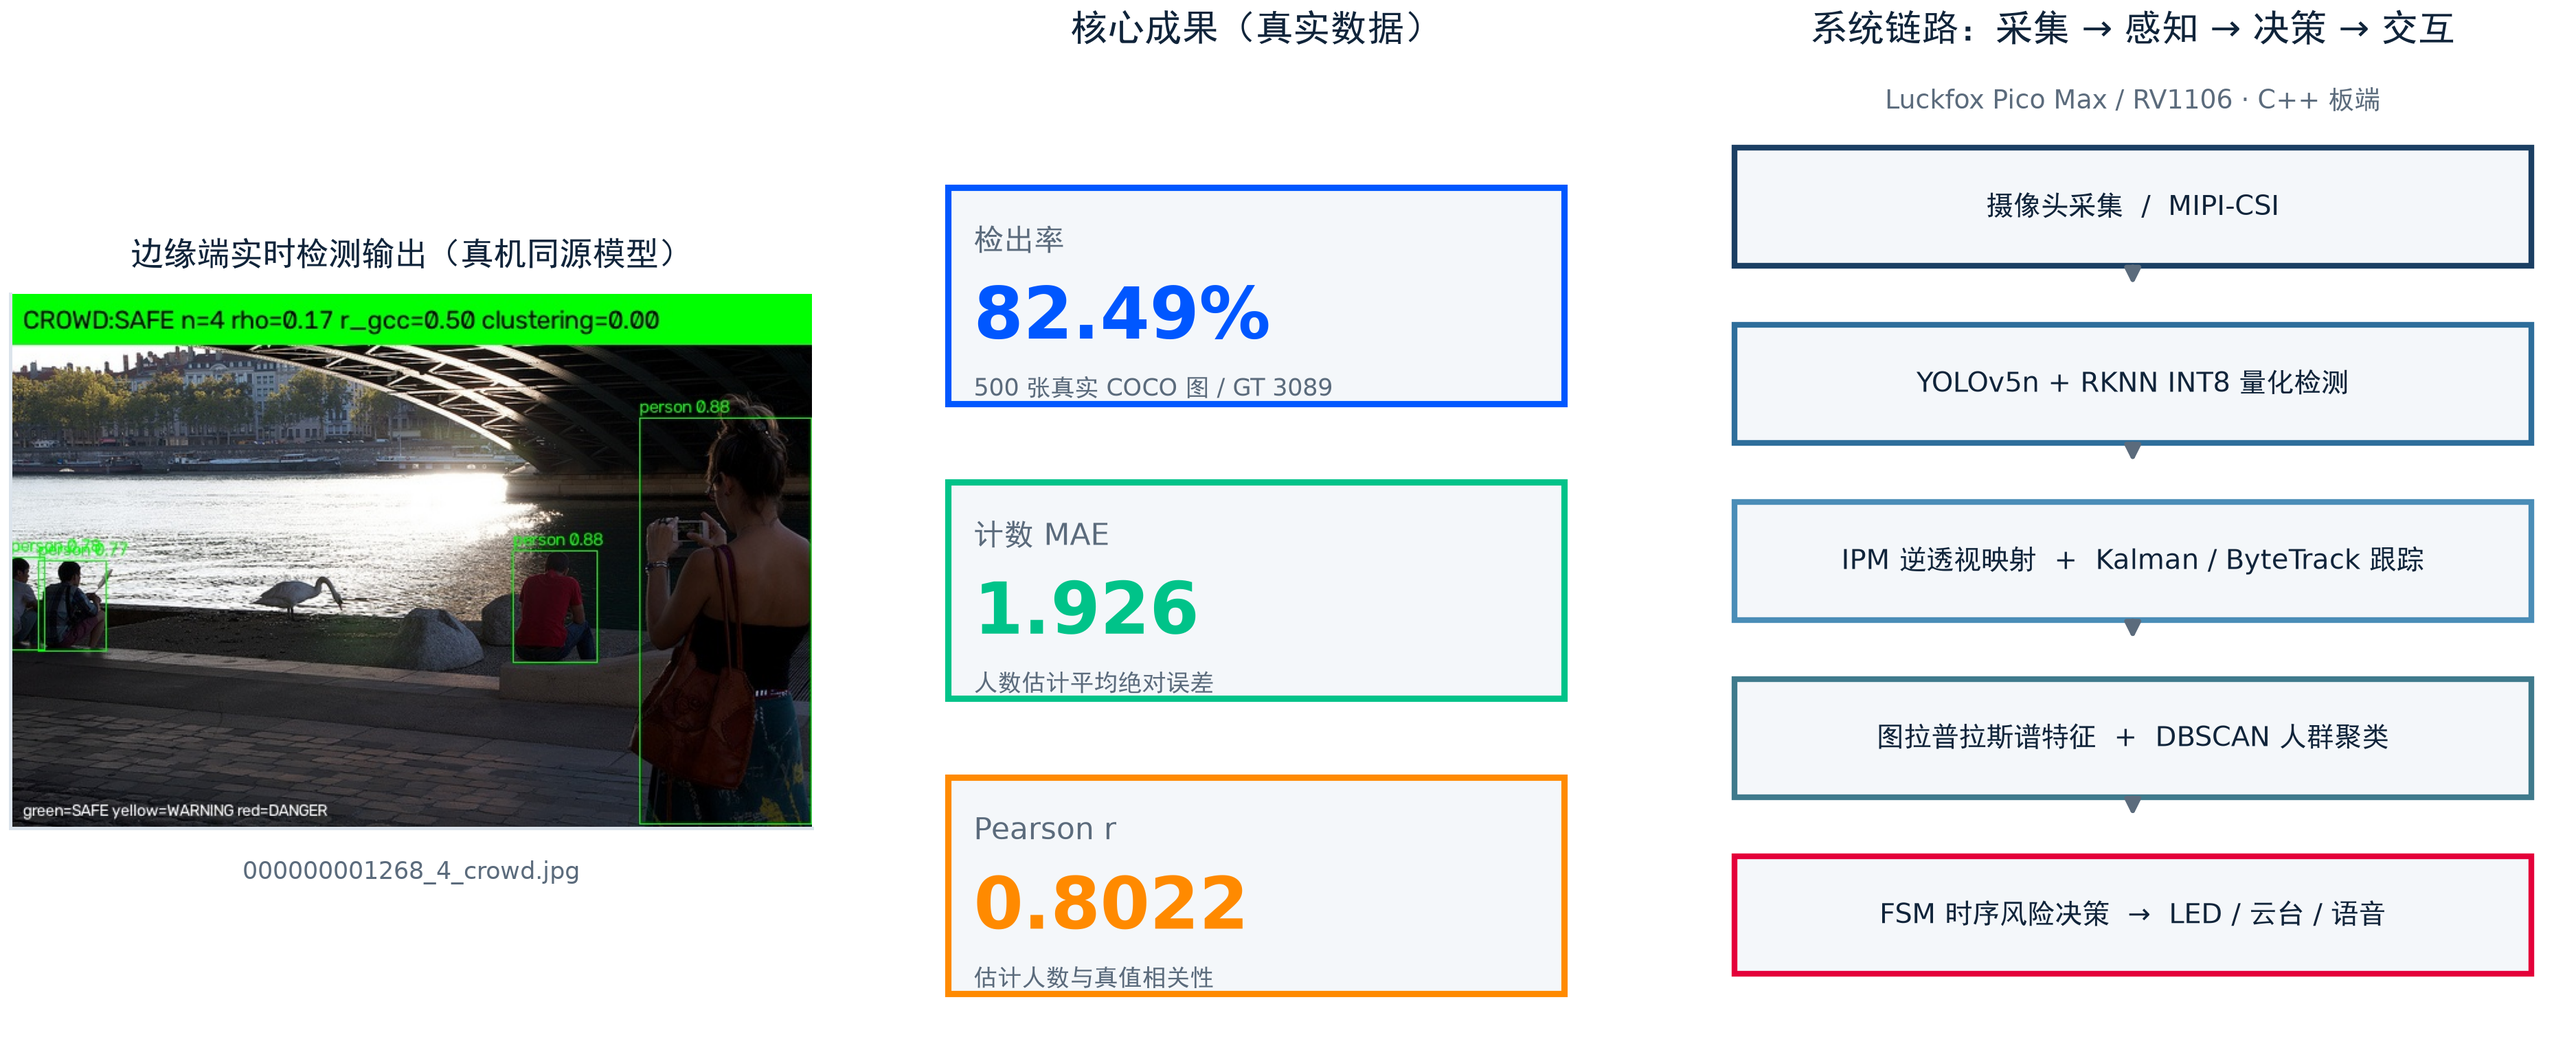
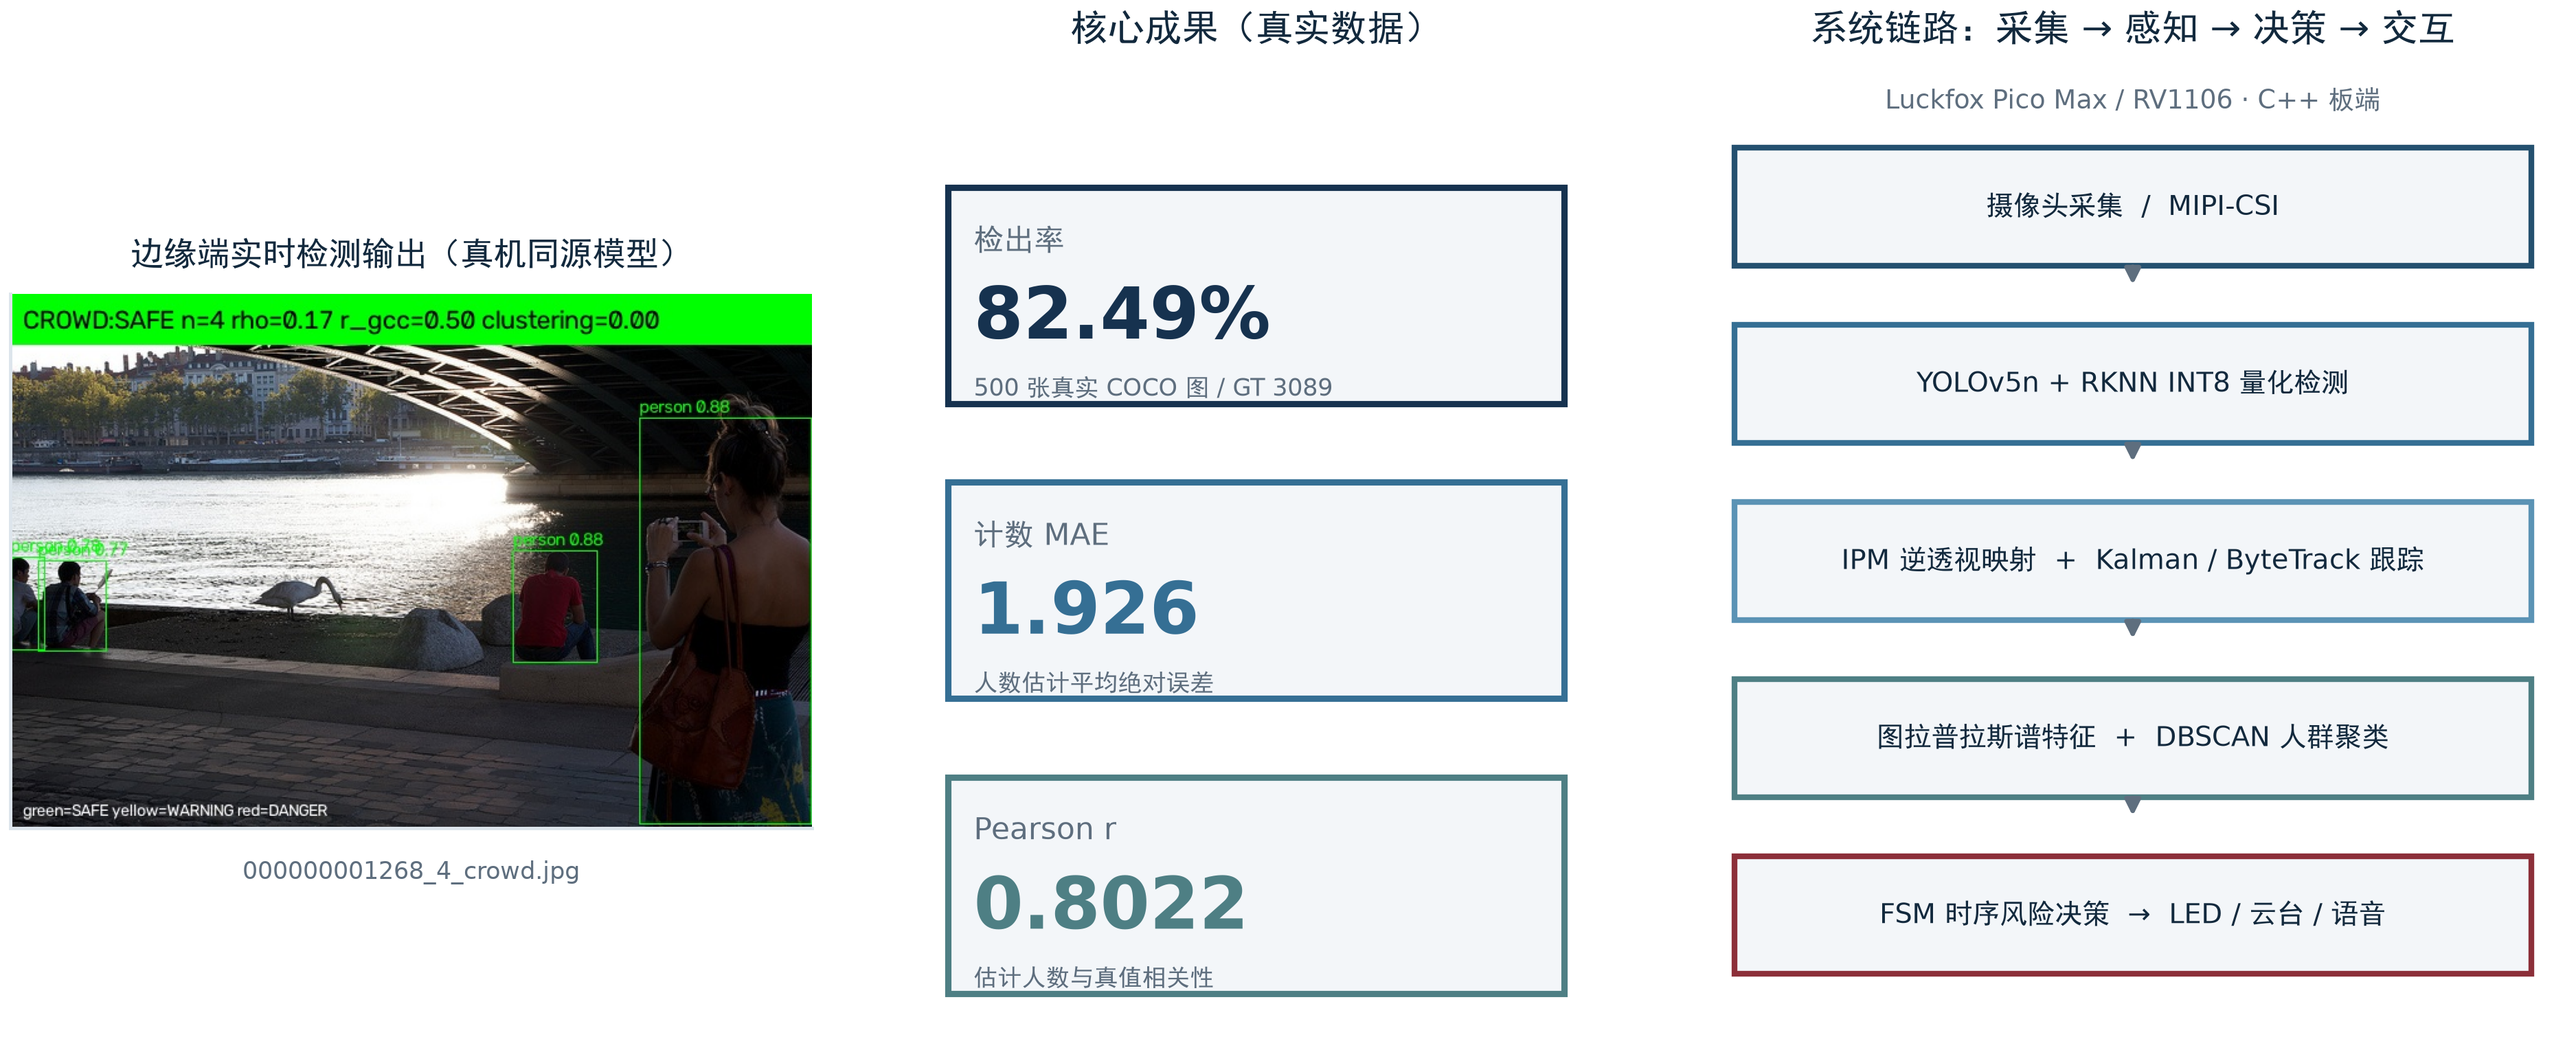
style(hero): 首屏主视觉改用沉稳主题配色（卡片/链路框全部换蓝灰阶，不再用高饱和撞色）

diff --git a/docs/figures/_style/make_figures.py b/docs/figures/_style/make_figures.py
@@ -81,12 +81,12 @@ elif "--hero-only" not in sys.argv:
 
 # ---------------- hero_overview.png ----------------
 def hero():
-    apply("unifuse")
-    T = get("unifuse")
-    lc = level_colors("unifuse")
-    P = colors("unifuse")
-    PB = colors("bsafiusion")
-    lcB = level_colors("bsafiusion")
+    apply("steady")
+    T = get("steady")
+    lc = level_colors("steady")
+    P = colors("steady")
+    PB = colors("steady")
+    lcB = level_colors("steady")
 
     summary = json.load(open(os.path.join(ROOT, "results", "images500_gt_eval", "summary.json"), encoding="utf-8"))
 
